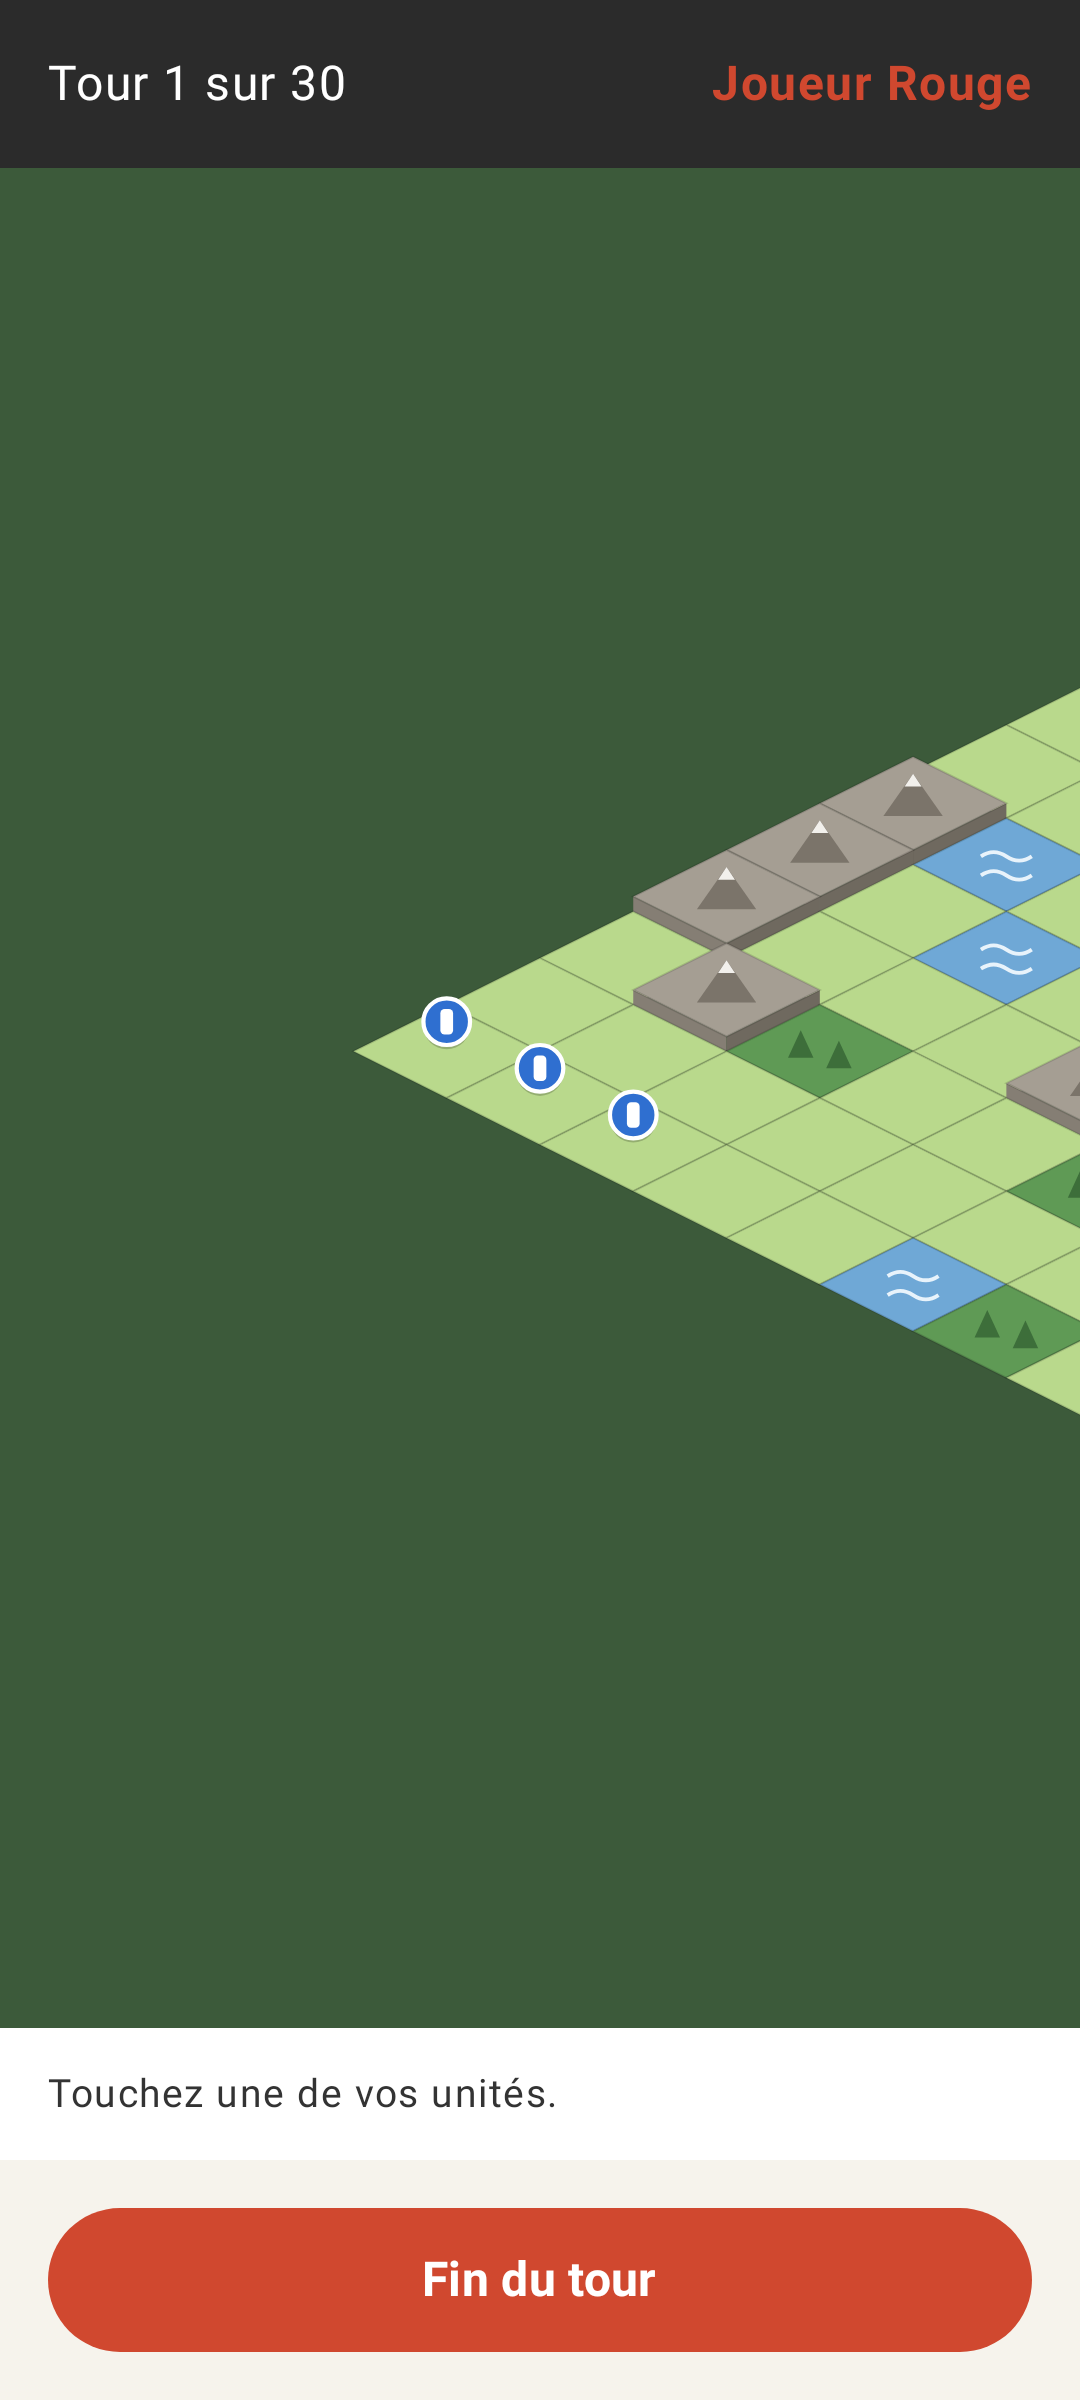
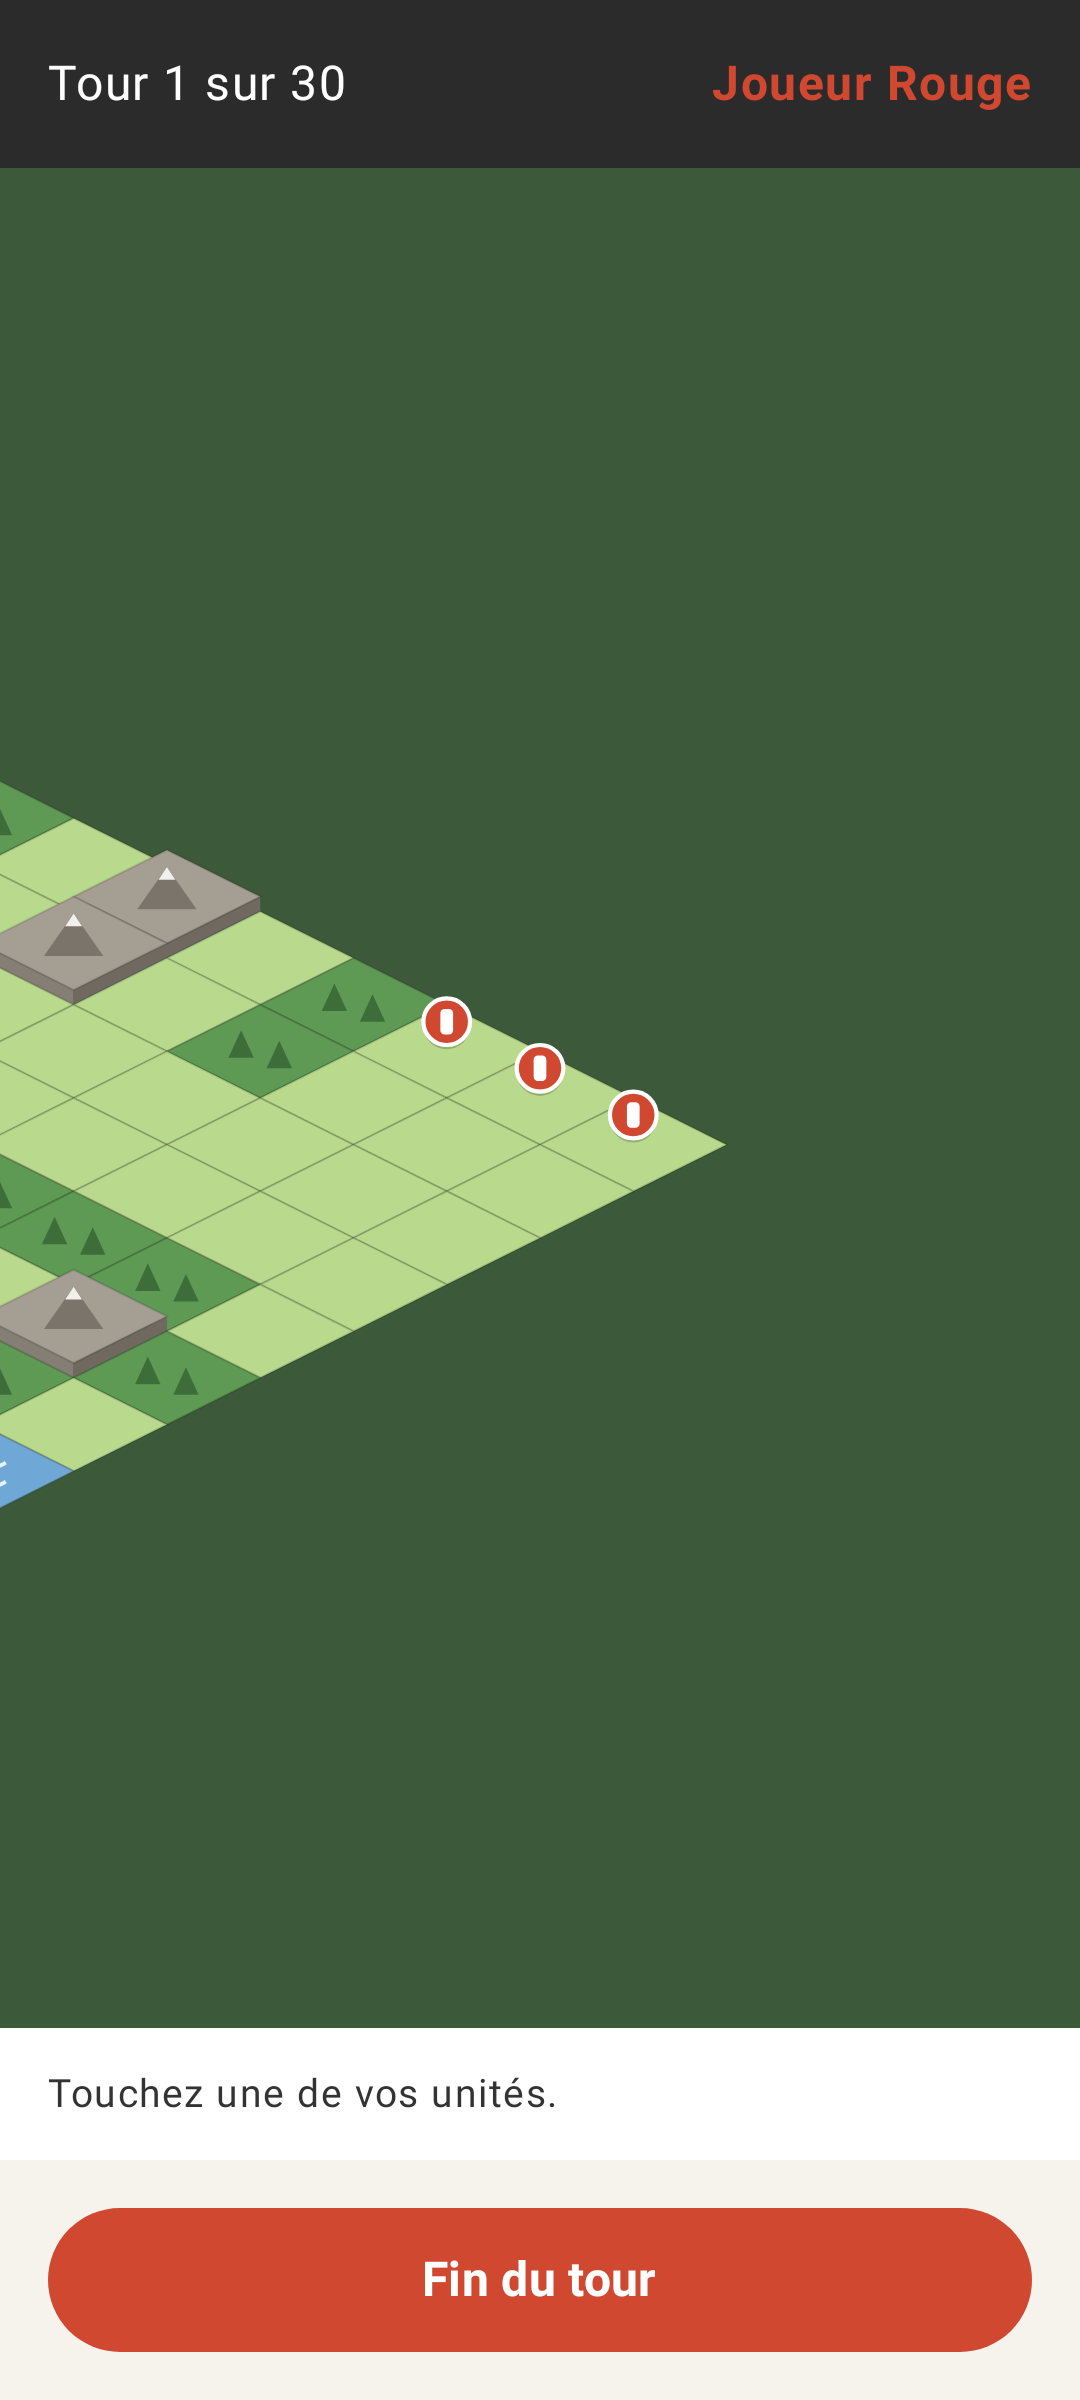
S1 : au début de chaque tour, la vue glisse vers les unités du joueur (D-21)
Claude-Session: https://claude.ai/code/session_01EL3qoSH2aPunpMotVA9fo3

Changed region(s): [[0.0, 0.2812, 1.0, 0.625]]

diff --git a/app/src/main/kotlin/fr/jeu4x/app/plateau/EcranPartie.kt b/app/src/main/kotlin/fr/jeu4x/app/plateau/EcranPartie.kt
@@ -1,5 +1,7 @@
 package fr.jeu4x.app.plateau
 
+import androidx.compose.animation.core.animate
+import androidx.compose.animation.core.tween
 import androidx.compose.foundation.Canvas
 import androidx.compose.foundation.background
 import androidx.compose.foundation.gestures.detectTapGestures
@@ -141,6 +143,19 @@ private fun Plateau(affichage: Affichage, surToucherCase: (Int) -> Unit) {
             val (e, dx, dy) = perspective.cadrageSur(miennes, tailleVue.width.toFloat(), tailleVue.height.toFloat())
             echelle = e
             decalage = Offset(dx, dy)
+        }
+    }
+
+    // Début de chaque tour (D-21) : la vue glisse en une demi-seconde vers les unités du
+    // joueur dont c'est le tour, au zoom choisi. Rien au premier cadrage (déjà centré).
+    LaunchedEffect(affichage.numeroPartie, etat.tour, etat.joueurCourant) {
+        if (echelle == 0f || tailleVue.width == 0) return@LaunchedEffect
+        val miennes = etat.unites.filter { it.joueur == etat.joueurCourant }
+            .map { etat.colonne(it.case) to etat.rangee(it.case) }
+        val (cx, cy) = perspective.decalagePour(miennes, tailleVue.width.toFloat(), tailleVue.height.toFloat(), echelle)
+        val depart = decalage
+        animate(0f, 1f, animationSpec = tween(durationMillis = 500)) { t, _ ->
+            decalage = Offset(depart.x + (cx - depart.x) * t, depart.y + (cy - depart.y) * t)
         }
     }
 

diff --git a/app/src/main/kotlin/fr/jeu4x/app/plateau/Perspective.kt b/app/src/main/kotlin/fr/jeu4x/app/plateau/Perspective.kt
@@ -60,9 +60,15 @@ class Perspective(val taille: Int, val demiLargeur: Float, val demiHauteur: Floa
      */
     fun cadrageSur(cases: List<Pair<Int, Int>>, largeur: Float, hauteur: Float, grossissement: Float = 2f): Triple<Float, Float, Float> {
         val echelle = echelleEnsemble(largeur, hauteur) * grossissement
+        val (dx, dy) = decalagePour(cases, largeur, hauteur, echelle)
+        return Triple(echelle, dx, dy)
+    }
+
+    /** Décalage qui met le centre moyen des cases au milieu de la vue, à l'échelle donnée (D-21). */
+    fun decalagePour(cases: List<Pair<Int, Int>>, largeur: Float, hauteur: Float, echelle: Float): Pair<Float, Float> {
         val centres = if (cases.isEmpty()) listOf(centre((taille - 1) / 2, (taille - 1) / 2)) else cases.map { (x, y) -> centre(x, y) }
         val cx = centres.map { it.first }.average().toFloat()
         val cy = centres.map { it.second }.average().toFloat()
-        return Triple(echelle, largeur / 2f - cx * echelle, hauteur / 2f - cy * echelle)
+        return largeur / 2f - cx * echelle to hauteur / 2f - cy * echelle
     }
 }

diff --git a/app/src/test/kotlin/fr/jeu4x/app/plateau/PerspectiveTest.kt b/app/src/test/kotlin/fr/jeu4x/app/plateau/PerspectiveTest.kt
@@ -53,4 +53,13 @@ class CadrageTest {
         assertEquals(540f, cx * e + dx, 1f)
         assertEquals(850f, cy * e + dy, 1f)
     }
+
+    @Test
+    fun `au changement de tour le zoom reste et la vue se centre sur l'autre joueur`() {
+        val rouges = listOf(10 to 10, 9 to 10, 8 to 10)
+        val (dx, dy) = p.decalagePour(rouges, 1080f, 1700f, 3f)
+        val (cx, cy) = p.centre(9, 10)
+        assertEquals(540f, cx * 3f + dx, 1f)
+        assertEquals(850f, cy * 3f + dy, 1f)
+    }
 }

diff --git a/docs/environnement/JOURNAL.md b/docs/environnement/JOURNAL.md
@@ -2,6 +2,18 @@
 
 > Entrée la plus récente en haut. On ne modifie ni ne supprime une entrée passée.
 
+## 2026-11-27 · Début de tour : la vue glisse vers les unités du joueur (D-21)
+
+- **Auteur** : Claude, session S1
+- **Branche et commit** : `s1-environnement`
+- **Objectif** : réponse a) de l'utilisateur (D-21).
+- **Réalisé** : `Perspective.decalagePour` (centre moyen des unités au milieu de la vue, à l'échelle donnée) ; `EcranPartie` : au changement de tour ou de joueur, animation de 500 ms du décalage seul, zoom gardé. Script d'émulateur : capture après « Fin du tour » (`capture-tour-rouge.png`), jointe à la pré-version. Capture haute définition : `docs/environnement/captures/plateau-tour-rouge.png` (les trois unités rouges au centre).
+- **Décisions** : aucune nouvelle.
+- **Vérifications** : `:app:testDebugUnitTest` 31 verts (dont le centrage au changement de tour) ; capture regardée.
+- **Non vérifié sur téléphone** : douceur de l'animation, confort.
+- **Problèmes et dette** : aucun.
+- **Prochaine étape** : essai à l'émulateur, rapport.
+
 ## 2026-11-27 · Essai 0.1.9 vert à l'émulateur, cadrage zoomé
 
 - **Auteur** : Claude, session S1
